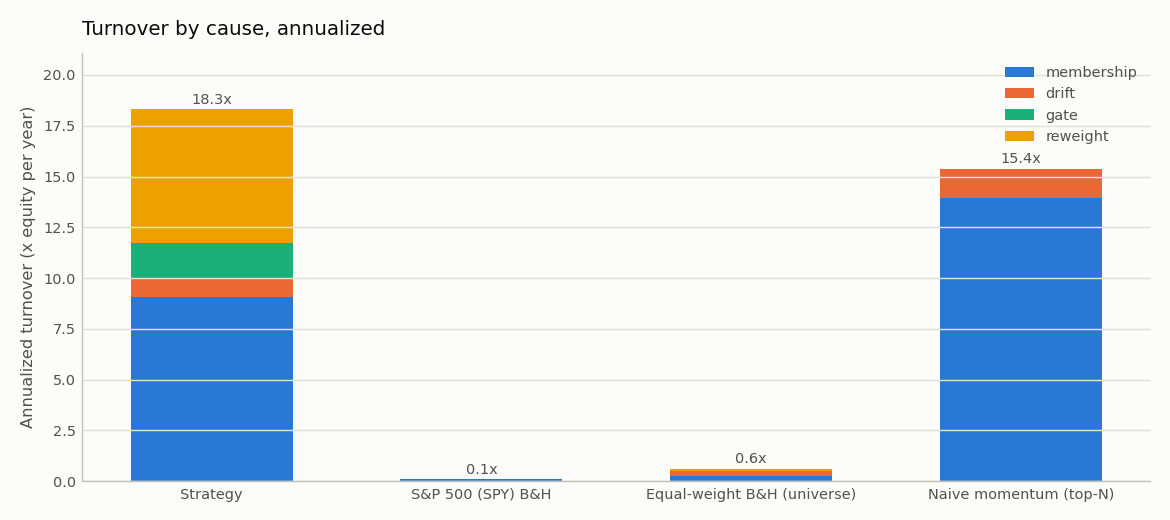
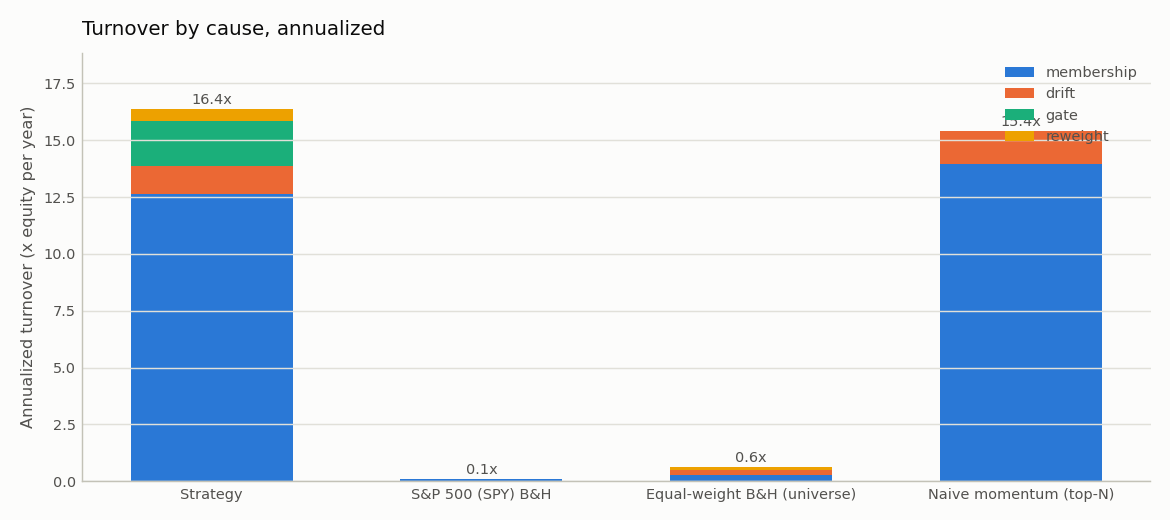
Step 2: softmax weighting; control config moves to equal weight
ranker.weighting gains 'softmax' (w_i ∝ exp((z_i − max z)/τ) over the held names' momentum
z-scores, ranker.softmax_temperature > 0, default 1.0). Neutral default stays conviction_tier
(golden). configs/base.yaml sets the chosen weighting: equal. Tests: sum to one, all-negative z,
shift invariance, τ=1e6 ≈ equal weight, small τ concentrates, monotone in z.

Control, conviction tiers -> equal weight (x/yr):
  membership 9.06 -> 12.65 | drift 0.95 -> 1.20 | gate 1.69 -> 2.00 | reweight 6.62 -> 0.53
  total 18.32 -> 16.37; CAGR 37.1% -> 36.6%, Sharpe 1.07 -> 1.10, max DD -50.8% -> -47.1%
Equal weight removes the rank-swap reweighting but each entry/exit is now 20% instead of a
10-30% tier, so membership turnover rises; net -11%.

diff --git a/tests/test_ranker.py b/tests/test_ranker.py
@@ -20,6 +20,8 @@ def _wide(mom_rows, vol_rows=None):
 
 
 ALL = pd.DataFrame(True, index=IDX, columns=COLS)
+# The Layer 1 weighting, pinned explicitly: the YAML config carries the chosen value (equal).
+TIERS = make_config(ranker={"weighting": "conviction_tier"}).ranker
 
 
 def test_zscore_rows_over_eligible_only():
@@ -33,7 +35,7 @@ def test_zscore_rows_over_eligible_only():
 
 
 def test_conviction_tiers_in_rank_order():
-    cfg = make_config().ranker  # top_n=5, tiers .30 .25 .20 .15 .10
+    cfg = TIERS  # top_n=5, tiers .30 .25 .20 .15 .10
     wide = _wide([[6, 5, 4, 3, 2, 1], [1, 2, 3, 4, 5, 6]])
     w = ranker.rank(wide, ALL, cfg)
     assert w.loc[IDX[0]].tolist() == pytest.approx([0.30, 0.25, 0.20, 0.15, 0.10, 0.0])
@@ -41,7 +43,7 @@ def test_conviction_tiers_in_rank_order():
 
 
 def test_tiers_renormalize_when_fewer_survivors():
-    cfg = make_config().ranker
+    cfg = TIERS
     wide = _wide([[3, 2, 1, 0, 0, 0]] * 2)
     elig = ALL.copy()
     elig[["D", "E", "F"]] = False
@@ -88,3 +90,51 @@ def test_naive_momentum_is_equal_weight_top_n():
     wide = _wide([[6, 5, 4, 3, 2, 1]] * 2)
     w = ranker.naive_momentum(wide, ALL, top_n=3)
     assert w.loc[IDX[0]].tolist() == pytest.approx([1 / 3] * 3 + [0] * 3)
+
+
+# --- softmax weighting (brief v2, decision 1) ---------------------------------------------
+
+
+def _softmax_cfg(tau: float, top_n: int = 5):
+    return make_config().ranker.model_copy(
+        update={"weighting": "softmax", "softmax_temperature": tau, "top_n": top_n}
+    )
+
+
+def test_softmax_weights_sum_to_one_and_are_monotone_in_z():
+    wide = _wide([[6, 5, 4, 3, 2, 1], [1, 2, 3, 4, 5, 6]])
+    w = ranker.rank(wide, ALL, _softmax_cfg(1.0))
+    assert w.sum(axis=1).tolist() == pytest.approx([1.0, 1.0])
+    row = w.loc[IDX[0]]
+    assert row["F"] == 0.0  # rank 6 not selected
+    assert row["A"] > row["B"] > row["C"] > row["D"] > row["E"] > 0
+    assert w.loc[IDX[1]].tolist()[::-1] == pytest.approx(row.tolist())
+
+
+def test_softmax_all_negative_z_is_finite_and_shift_invariant():
+    z = np.array([-1.0, -2.0, -3.0, -4.0, -5.0, -6.0])
+    wide = _wide([z, z + 100.0])
+    # Every eligible name shares the mean/std after a shift, so z is identical on both rows...
+    w = ranker.rank(wide, ALL, _softmax_cfg(0.7))
+    assert np.isfinite(w.to_numpy()).all() and (w >= 0).all().all()
+    assert w.loc[IDX[0]].tolist() == pytest.approx(w.loc[IDX[1]].tolist())
+    # ...and the softmax itself is shift-invariant in its input.
+    sel = pd.DataFrame(True, index=IDX, columns=COLS)
+    score = pd.DataFrame([z, z], index=IDX, columns=COLS)
+    a = ranker.softmax_rows(score, sel, 0.7)
+    b = ranker.softmax_rows(score - 37.0, sel, 0.7)
+    a, b = a.div(a.sum(axis=1), axis=0), b.div(b.sum(axis=1), axis=0)
+    pd.testing.assert_frame_equal(a, b)
+
+
+def test_softmax_limits_equal_weight_and_winner_take_all():
+    wide = _wide([[6, 5, 4, 3, 2, 1]] * 2)
+    huge = ranker.rank(wide, ALL, _softmax_cfg(1e6)).loc[IDX[0]]
+    assert huge.tolist() == pytest.approx([0.2] * 5 + [0.0], abs=1e-6)
+    tiny = ranker.rank(wide, ALL, _softmax_cfg(1e-3)).loc[IDX[0]]
+    assert tiny["A"] == pytest.approx(1.0) and tiny["B"] < 1e-9
+
+
+def test_softmax_config_rejects_nonpositive_temperature():
+    with pytest.raises(ValueError):
+        make_config(ranker={"weighting": "softmax", "softmax_temperature": 0.0})

diff --git a/src/thematic_alpha/strategy/ranker.py b/src/thematic_alpha/strategy/ranker.py
@@ -1,9 +1,11 @@
 """Ranker (SPEC §1C): target weights per date from the feature panel.
 
 ``momentum_zscore``: z-score ``mom_63`` across *eligible* names, select ``top_n``, weight per
-``weighting``. Tickers failing ``min_history_days`` are already ineligible (features/build.py),
-so they never enter the cross-section, and weights renormalize over the survivors. Rows with no
-eligible name get zero weight (cash).
+``weighting``: ``equal``, ``inverse_vol``, ``conviction_tier`` by rank, or ``softmax`` over the
+selected names' z-scores with temperature τ, ``w_i = exp((z_i − max z) / τ) / Σ``
+(shift-invariant, defined for any real z, no clipping). Tickers failing ``min_history_days`` are
+already ineligible (features/build.py), so they never enter the cross-section, and weights
+renormalize over the survivors. Rows with no eligible name get zero weight (cash).
 """
 
 from __future__ import annotations
@@ -32,15 +34,28 @@ def select_top_n(score: pd.DataFrame, top_n: int) -> pd.DataFrame:
     return order.where(order <= top_n)
 
 
+def softmax_rows(score: pd.DataFrame, selected: pd.DataFrame, temperature: float) -> pd.DataFrame:
+    """Row-wise softmax of ``score`` over ``selected`` names, stabilised by the row maximum."""
+    z = score.where(selected)
+    shifted = z.sub(z.max(axis=1), axis=0) / temperature
+    return np.exp(shifted).fillna(0.0)
+
+
 def weight_selected(
     position: pd.DataFrame,
     weighting: str,
     tiers: list[float],
     vol: pd.DataFrame | None = None,
+    score: pd.DataFrame | None = None,
+    temperature: float = 1.0,
 ) -> pd.DataFrame:
     selected = position.notna()
     if weighting == "equal":
         raw = selected.astype(float)
+    elif weighting == "softmax":
+        if score is None:
+            raise ValueError("softmax weighting needs the score frame")
+        raw = softmax_rows(score, selected, temperature)
     elif weighting == "inverse_vol":
         if vol is None:
             raise ValueError("inverse_vol weighting needs a vol frame")
@@ -67,7 +82,14 @@ def rank(wide: dict[str, pd.DataFrame], eligible: pd.DataFrame, cfg: RankerConfi
         return weight_selected(eligible.astype(float).where(eligible), "equal", [])
     score = zscore_rows(wide[SIGNAL], eligible)
     position = select_top_n(score, cfg.top_n)
-    return weight_selected(position, cfg.weighting, cfg.conviction_tiers, wide.get(VOL))
+    return weight_selected(
+        position,
+        cfg.weighting,
+        cfg.conviction_tiers,
+        wide.get(VOL),
+        score,
+        cfg.softmax_temperature,
+    )
 
 
 def naive_momentum(

diff --git a/src/thematic_alpha/reporting/report.py b/src/thematic_alpha/reporting/report.py
@@ -115,7 +115,15 @@ def render_report(
             f"model={config.costs.model}, {config.costs.bps_per_side:g} bps/side + "
             f"{config.costs.slippage_bps:g} bps slippage, flat {config.costs.flat_fee:g} {ccy}",
         ],
-        ["Ranker", f"{config.ranker.method}, top {config.ranker.top_n}, {config.ranker.weighting}"],
+        [
+            "Ranker",
+            f"{config.ranker.method}, top {config.ranker.top_n}, {config.ranker.weighting}"
+            + (
+                f" (τ={config.ranker.softmax_temperature:g})"
+                if config.ranker.weighting == "softmax"
+                else ""
+            ),
+        ],
         [
             "Macro gate",
             f"VIX>{config.macro_gate.vix_threshold:g}→×{config.macro_gate.vix_scale_factor:g}; "

diff --git a/src/thematic_alpha/config.py b/src/thematic_alpha/config.py
@@ -69,8 +69,11 @@ class MacroGateConfig(_Base):
 class RankerConfig(_Base):
     method: Literal["momentum_zscore", "equal_weight", "ml"] = "momentum_zscore"
     top_n: int = Field(gt=0)
-    weighting: Literal["equal", "inverse_vol", "conviction_tier"] = "conviction_tier"
+    weighting: Literal["equal", "inverse_vol", "conviction_tier", "softmax"] = "conviction_tier"
     conviction_tiers: list[float]
+    # softmax over the held names' momentum z-scores: w_i ∝ exp((z_i - max z) / τ). Neutral
+    # default 1.0 is unused unless weighting == "softmax".
+    softmax_temperature: float = Field(default=1.0, gt=0.0)
 
     @model_validator(mode="after")
     def _tiers_cover_top_n(self) -> RankerConfig:

diff --git a/tests/test_universe.py b/tests/test_universe.py
@@ -61,7 +61,9 @@ def test_short_history_excluded_and_weights_renormalize():
     from thematic_alpha.strategy.ranker import rank
 
     market = make_market()
-    cfg = make_config(data={"min_history_days": 100}, ranker={"top_n": 2})
+    cfg = make_config(
+        data={"min_history_days": 100}, ranker={"top_n": 2, "weighting": "conviction_tier"}
+    )
     feats = build_features(market, cfg)
     # Cut BBB's history so it only has ~50 sessions: it must never be held.
     raw = dict(market.raw)

diff --git a/tests/test_config.py b/tests/test_config.py
@@ -46,6 +46,7 @@ def test_out_of_range_value_raises(base_config_path):
 
 def test_conviction_tiers_must_cover_top_n(base_config_path):
     raw = copy.deepcopy(_load_raw(base_config_path))
+    raw["ranker"]["weighting"] = "conviction_tier"
     raw["ranker"]["top_n"] = 10  # more than the 5 conviction tiers provided
     with pytest.raises(ValidationError):
         Config.model_validate(raw)

diff --git a/tests/test_golden.py b/tests/test_golden.py
@@ -19,3 +19,8 @@ def test_fixture_exercises_gate_mask_and_listings():
 
 def test_all_neutral_reproduces_layer1():
     assert_golden()
+
+
+def test_conviction_tiers_are_golden_after_softmax():
+    """The softmax code path must not touch the Layer 1 weighting."""
+    assert_golden(ranker={"weighting": "conviction_tier", "softmax_temperature": 2.0})

diff --git a/outputs/report.md b/outputs/report.md
@@ -13,7 +13,7 @@
 | Rebalance | weekly, friday |
 | Execution | t + 1 session at the open |
 | Costs | model=bps, 5 bps/side + 3 bps slippage, flat 1 EUR |
-| Ranker | momentum_zscore, top 5, conviction_tier |
+| Ranker | momentum_zscore, top 5, equal |
 | Macro gate | VIX>25→×0.5; 10y +40bp/21d→×0.7; WTI +20%/21d→×0.85; floor 0.3; multiplicative |
 | Event mask | block new exposure 3 sessions before earnings (on) |
 | Sizing | max weight 0.35, cash floor 0; house-money rule: Layer 2 (not applied) |
@@ -26,7 +26,7 @@
 
 ## Strategy activity
 
-611 signal dates. Macro-gate exposure averaged 0.92 (minimum 0.30; below 1.0 on 118 signal dates). Event mask: **66 entries blocked pre-earnings** (323 ticker-dates masked; 0 tickers without earnings dates failed open).
+611 signal dates. Macro-gate exposure averaged 0.92 (minimum 0.30; below 1.0 on 118 signal dates). Event mask: **22 entries blocked pre-earnings** (323 ticker-dates masked; 0 tickers without earnings dates failed open).
 
 ## Headline results (net of costs)
 
@@ -34,35 +34,35 @@
 
 | Metric | Strategy | S&P 500 (SPY) B&H | Equal-weight B&H (universe) | Naive momentum (top-N) |
 |---|---:|---:|---:|---:|
-| Total return | 4353.6% | 364.5% | 7474.4% | 6780.2% |
-| CAGR | 37.1% | 13.6% | 43.3% | 42.2% |
-| Annualized volatility | 32.6% | 18.4% | 31.2% | 34.0% |
-| Sharpe (excess over DTB3) | 1.07 | 0.67 | 1.24 | 1.14 |
-| Sortino (MAR 0) | 1.56 | 0.95 | 1.82 | 1.67 |
-| Max drawdown | -50.8% | -33.5% | -46.7% | -55.2% |
-| Max DD peak | 2021-11-25 | 2020-02-19 | 2021-12-27 | 2022-01-03 |
+| Total return | 4145.0% | 364.5% | 7474.4% | 6780.2% |
+| CAGR | 36.6% | 13.6% | 43.3% | 42.2% |
+| Annualized volatility | 30.9% | 18.4% | 31.2% | 34.0% |
+| Sharpe (excess over DTB3) | 1.10 | 0.67 | 1.24 | 1.14 |
+| Sortino (MAR 0) | 1.60 | 0.95 | 1.82 | 1.67 |
+| Max drawdown | -47.1% | -33.5% | -46.7% | -55.2% |
+| Max DD peak | 2022-01-03 | 2020-02-19 | 2021-12-27 | 2022-01-03 |
 | Max DD trough | 2022-12-28 | 2020-03-23 | 2022-12-28 | 2022-12-28 |
-| Max DD recovery | 2023-07-03 | 2021-01-07 | 2023-07-05 | 2024-02-09 |
-| Max DD duration (days) | 585 | 323 | 555 | 767 |
-| Calmar | 0.73 | 0.41 | 0.93 | 0.76 |
-| Alpha vs S&P 500 (ann.) | 21.7% | -0.1% | 22.6% | 23.0% |
-| Beta vs S&P 500 | 1.06 | 1.00 | 1.30 | 1.28 |
-| Historical VaR 95% (daily) | 3.1% | 1.7% | 3.2% | 3.3% |
-| Historical VaR 99% (daily) | 5.8% | 3.3% | 5.3% | 5.8% |
-| Parametric VaR 95% (daily) | 3.2% | 1.8% | 3.1% | 3.4% |
-| Parametric VaR 99% (daily) | 4.6% | 2.6% | 4.4% | 4.8% |
-| CVaR / ES 95% (daily) | 4.8% | 2.8% | 4.6% | 5.0% |
-| Excess kurtosis (daily) | 3.72 | 11.29 | 3.70 | 3.42 |
-| Hit rate (weekly periods) | 59.9% | 60.3% | 61.7% | 60.4% |
-| Average win (weekly period) | 3.6% | 1.7% | 3.5% | 3.8% |
-| Average loss (weekly period) | -3.6% | -1.8% | -3.5% | -3.7% |
-| Annualized turnover | 18.32 | 0.08 | 0.62 | 15.39 |
-| Total costs paid | 11,464.76 | 7.99 | 1,229.48 | 13,034.81 |
-| Costs as % of final equity | 2.57% | 0.02% | 0.16% | 1.89% |
+| Max DD recovery | 2023-06-30 | 2021-01-07 | 2023-07-05 | 2024-02-09 |
+| Max DD duration (days) | 543 | 323 | 555 | 767 |
+| Calmar | 0.78 | 0.41 | 0.93 | 0.76 |
+| Alpha vs S&P 500 (ann.) | 20.8% | -0.1% | 22.6% | 23.0% |
+| Beta vs S&P 500 | 1.05 | 1.00 | 1.30 | 1.28 |
+| Historical VaR 95% (daily) | 2.9% | 1.7% | 3.2% | 3.3% |
+| Historical VaR 99% (daily) | 5.4% | 3.3% | 5.3% | 5.8% |
+| Parametric VaR 95% (daily) | 3.1% | 1.8% | 3.1% | 3.4% |
+| Parametric VaR 99% (daily) | 4.4% | 2.6% | 4.4% | 4.8% |
+| CVaR / ES 95% (daily) | 4.6% | 2.8% | 4.6% | 5.0% |
+| Excess kurtosis (daily) | 3.64 | 11.29 | 3.70 | 3.42 |
+| Hit rate (weekly periods) | 60.4% | 60.3% | 61.7% | 60.4% |
+| Average win (weekly period) | 3.4% | 1.7% | 3.5% | 3.8% |
+| Average loss (weekly period) | -3.4% | -1.8% | -3.5% | -3.7% |
+| Annualized turnover | 16.37 | 0.08 | 0.62 | 15.39 |
+| Total costs paid | 10,292.25 | 7.99 | 1,229.48 | 13,034.81 |
+| Costs as % of final equity | 2.42% | 0.02% | 0.16% | 1.89% |
 
-Against equal-weight buy-and-hold of the same basket the strategy's CAGR is lower (37.1% vs 43.3%), its Sharpe is lower (1.07 vs 1.24), and its maximum drawdown is deeper (-50.8% vs -46.7%). **This is an underperformance result**: the rules did not add value over simply holding the (hindsight-selected) basket, net of costs.
+Against equal-weight buy-and-hold of the same basket the strategy's CAGR is lower (36.6% vs 43.3%), its Sharpe is lower (1.10 vs 1.24), and its maximum drawdown is deeper (-47.1% vs -46.7%). **This is an underperformance result**: the rules did not add value over simply holding the (hindsight-selected) basket, net of costs.
 
-VaR note: parametric (normal) 99% VaR is 4.6% against a historical 5.8%; daily excess kurtosis is 3.72. The normal assumption understates the tail.
+VaR note: parametric (normal) 99% VaR is 4.4% against a historical 5.4%; daily excess kurtosis is 3.64. The normal assumption understates the tail.
 
 ## Turnover attribution
 
@@ -70,12 +70,12 @@ Annualized turnover split by cause (see `backtest/attribution.py`): **membership
 
 | Run | membership | drift | gate | reweight | total |
 |---|---:|---:|---:|---:|---:|
-| Strategy | 9.06 | 0.95 | 1.69 | 6.62 | 18.32 |
+| Strategy | 12.65 | 1.20 | 2.00 | 0.53 | 16.37 |
 | S&P 500 (SPY) B&H | 0.08 | 0.00 | 0.00 | 0.00 | 0.08 |
 | Equal-weight B&H (universe) | 0.27 | 0.21 | 0.00 | 0.14 | 0.62 |
 | Naive momentum (top-N) | 13.96 | 1.43 | 0.00 | 0.00 | 15.39 |
 
-Macro gate: 88 state transitions over 611 signal dates (7.3 per year); 27 of them reverse within 1 signal date and 34 within 2. The gate accounts for 9.2% of the strategy's turnover.
+Macro gate: 88 state transitions over 611 signal dates (7.3 per year); 27 of them reverse within 1 signal date and 34 within 2. The gate accounts for 12.2% of the strategy's turnover.
 
 ![turnover by cause](figures/turnover_by_cause.png)
 
@@ -83,10 +83,10 @@ Macro gate: 88 state transitions over 611 signal dates (7.3 per year); 27 of the
 
 |  | In EUR | In local currencies |
 |---|---:|---:|
-| Total return | 4353.6% | 4022.9% |
-| CAGR | 37.1% | 36.2% |
+| Total return | 4145.0% | 3912.5% |
+| CAGR | 36.6% | 35.9% |
 
-FX contribution: 0.9% per year of CAGR; in total the EUR result differs from the local-currency result by 330.7% of initial capital. Positions are unhedged USD and KRW exposure held by a EUR investor.
+FX contribution: 0.6% per year of CAGR; in total the EUR result differs from the local-currency result by 232.5% of initial capital. Positions are unhedged USD and KRW exposure held by a EUR investor.
 
 ## Largest drawdowns
 
@@ -94,11 +94,11 @@ FX contribution: 0.9% per year of CAGR; in total the EUR result differs from the
 
 | Depth | Peak | Trough | Recovery | Duration (days) |
 |---|---:|---:|---:|---:|
-| -50.8% | 2021-11-25 | 2022-12-28 | 2023-07-03 | 585 |
-| -46.9% | 2024-12-04 | 2025-04-21 | 2025-08-29 | 268 |
-| -37.2% | 2024-06-18 | 2024-08-07 | 2024-12-04 | 169 |
-| -33.2% | 2026-06-22 | 2026-07-29 | not recovered | 81 |
-| -32.9% | 2018-07-25 | 2018-12-24 | 2021-01-04 | 894 |
+| -47.1% | 2022-01-03 | 2022-12-28 | 2023-06-30 | 543 |
+| -45.2% | 2024-06-18 | 2025-04-21 | 2025-09-09 | 448 |
+| -33.2% | 2026-06-02 | 2026-07-29 | not recovered | 101 |
+| -32.5% | 2018-07-25 | 2018-12-24 | 2020-09-02 | 770 |
+| -23.5% | 2015-12-01 | 2016-02-11 | 2016-08-05 | 248 |
 
 **Equal-weight B&H (universe)**
 
